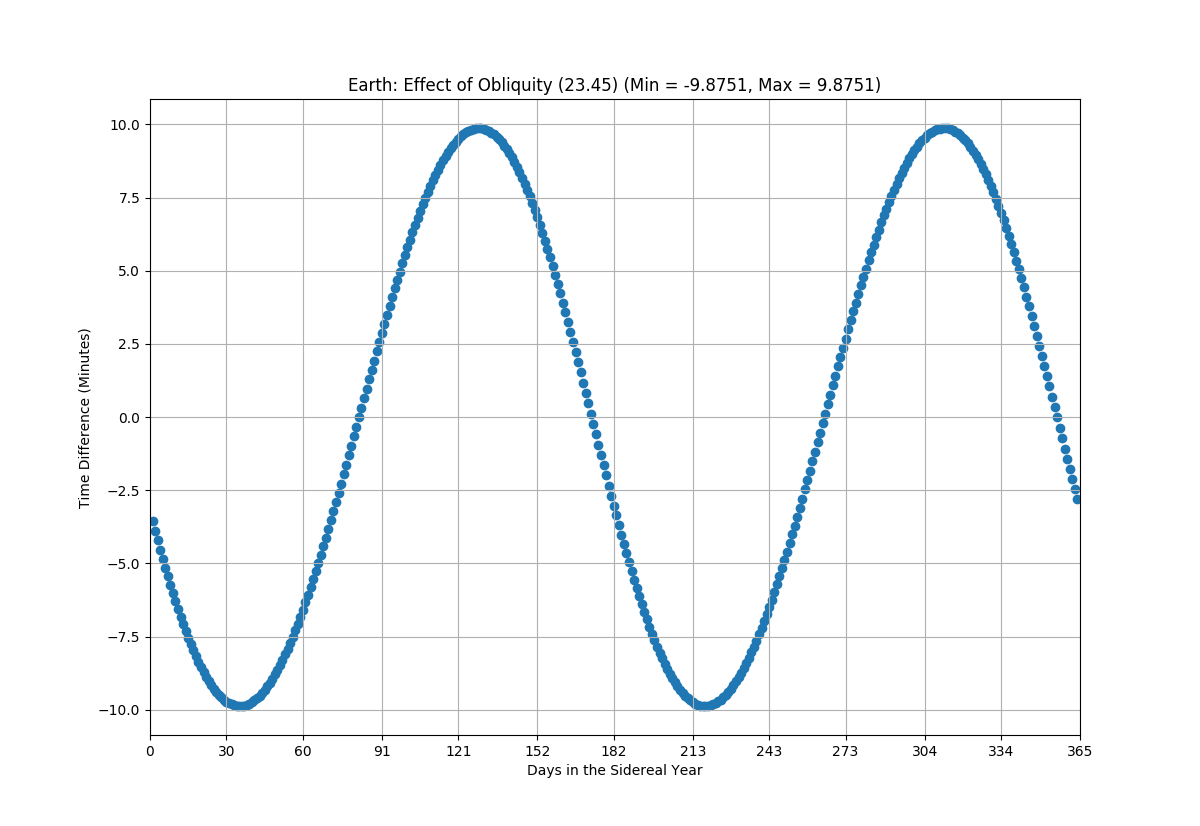
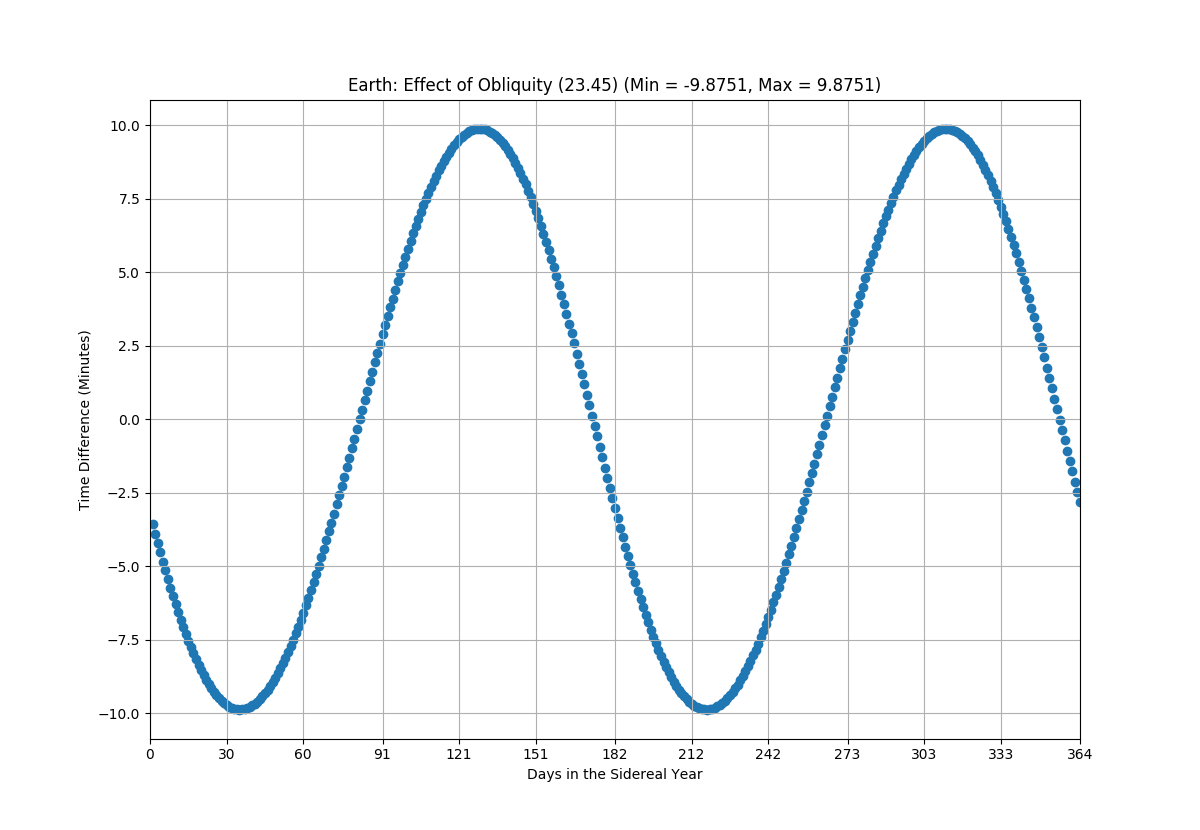
calculateDifferenceEOTMinutes() returns dict {day:eot_diff}

diff --git a/build/lib/muller_eot/calculate_eot.py b/build/lib/muller_eot/calculate_eot.py
@@ -34,6 +34,7 @@ def calculateDifferenceEOTMinutes(eccentricity=None,
 								obliquity_deg,
 								orbit_period) # Verify argument behavior
 
+
 	distance_between_solistice_perhelion_deg = muller_eot.calculateDistanceBetweenSolisticePerhelion()
 	distance_between_solistice_perhelion_rad = np.deg2rad(distance_between_solistice_perhelion_deg)
 
@@ -42,7 +43,7 @@ def calculateDifferenceEOTMinutes(eccentricity=None,
 	minutes_conversion = (24 * 60) / (2 * math.pi)
 	perihelion_day = muller_eot.calculatePerihelionDay()
 
-	eot_mins = []
+	eot_dict = {} # { day : eot_min_difference }
 	orbit_days_x = np.arange(1, round(orbit_period), 1)
 
 	# Equation [45], page 11: expansion of sine function yields:
@@ -85,12 +86,12 @@ def calculateDifferenceEOTMinutes(eccentricity=None,
 		sin6_m_p = math.sin(6 * (mean_anomaly + distance_between_solistice_perhelion_rad)) # sin6(M + P)
 		line_five = tan6_1_3 * sin6_m_p
 
-		eot_mins.append(-( line_one + line_two + line_three + line_four + line_five)*minutes_conversion)
-	return eot_mins
+		eot_min_difference = -( line_one + line_two + line_three + line_four + line_five)*minutes_conversion
+		eot_dict[day] = eot_min_difference
+	return eot_dict
 
 def plotEOT(planet_name=None,
-			orbital_period=None,
-			eot_y=[],
+			eot_dict={},
 			effect_title_str=None,
 			plot_title=None,
 			plot_x_title=None,
@@ -102,8 +103,7 @@ def plotEOT(planet_name=None,
 	# Plot EOT Time Differences
 
 	muller_eot.errorHandlingPlotEOT(planet_name,
-									orbital_period,
-									eot_y,
+									eot_dict,
 									effect_title_str,
 									plot_title,
 									plot_x_title,
@@ -115,11 +115,14 @@ def plotEOT(planet_name=None,
 
 	fig = plt.figure(figsize=(figsize_n,figsize_n), dpi=figsize_dpi)
 
+	# X Axis = orbital days in year, Y Axis = minute differences for EOT
+	orbit_days_x = eot_dict.keys()
+	eot_y = eot_dict.values()
+
 	# X - Axis, split by months
-	orbit_days_x = np.arange(1, round(orbital_period), 1)
-	date_range_split_into_months = np.arange(0, round(orbital_period)+1, orbital_period/12) # split into 12 months (based on Earth)
+	date_range_split_into_months = np.arange(0, round(max(orbit_days_x))+1, max(orbit_days_x)/12) # split into 12 months (based on Earth)
 	for i, value in enumerate(date_range_split_into_months): date_range_split_into_months[i] = math.floor(value) # round all values
-	
+
 	plt.xticks(date_range_split_into_months)
 	plt.xlim([min(date_range_split_into_months), max(date_range_split_into_months)])
 	plt.scatter(orbit_days_x, eot_y)

diff --git a/muller_eot/calculate_eot.py b/muller_eot/calculate_eot.py
@@ -34,6 +34,7 @@ def calculateDifferenceEOTMinutes(eccentricity=None,
 								obliquity_deg,
 								orbit_period) # Verify argument behavior
 
+
 	distance_between_solistice_perhelion_deg = muller_eot.calculateDistanceBetweenSolisticePerhelion()
 	distance_between_solistice_perhelion_rad = np.deg2rad(distance_between_solistice_perhelion_deg)
 
@@ -42,7 +43,7 @@ def calculateDifferenceEOTMinutes(eccentricity=None,
 	minutes_conversion = (24 * 60) / (2 * math.pi)
 	perihelion_day = muller_eot.calculatePerihelionDay()
 
-	eot_mins = []
+	eot_dict = {} # { day : eot_min_difference }
 	orbit_days_x = np.arange(1, round(orbit_period), 1)
 
 	# Equation [45], page 11: expansion of sine function yields:
@@ -85,12 +86,12 @@ def calculateDifferenceEOTMinutes(eccentricity=None,
 		sin6_m_p = math.sin(6 * (mean_anomaly + distance_between_solistice_perhelion_rad)) # sin6(M + P)
 		line_five = tan6_1_3 * sin6_m_p
 
-		eot_mins.append(-( line_one + line_two + line_three + line_four + line_five)*minutes_conversion)
-	return eot_mins
+		eot_min_difference = -( line_one + line_two + line_three + line_four + line_five)*minutes_conversion
+		eot_dict[day] = eot_min_difference
+	return eot_dict
 
 def plotEOT(planet_name=None,
-			orbital_period=None,
-			eot_y=[],
+			eot_dict={},
 			effect_title_str=None,
 			plot_title=None,
 			plot_x_title=None,
@@ -102,8 +103,7 @@ def plotEOT(planet_name=None,
 	# Plot EOT Time Differences
 
 	muller_eot.errorHandlingPlotEOT(planet_name,
-									orbital_period,
-									eot_y,
+									eot_dict,
 									effect_title_str,
 									plot_title,
 									plot_x_title,
@@ -115,11 +115,14 @@ def plotEOT(planet_name=None,
 
 	fig = plt.figure(figsize=(figsize_n,figsize_n), dpi=figsize_dpi)
 
+	# X Axis = orbital days in year, Y Axis = minute differences for EOT
+	orbit_days_x = eot_dict.keys()
+	eot_y = eot_dict.values()
+
 	# X - Axis, split by months
-	orbit_days_x = np.arange(1, round(orbital_period), 1)
-	date_range_split_into_months = np.arange(0, round(orbital_period)+1, orbital_period/12) # split into 12 months (based on Earth)
+	date_range_split_into_months = np.arange(0, round(max(orbit_days_x))+1, max(orbit_days_x)/12) # split into 12 months (based on Earth)
 	for i, value in enumerate(date_range_split_into_months): date_range_split_into_months[i] = math.floor(value) # round all values
-	
+
 	plt.xticks(date_range_split_into_months)
 	plt.xlim([min(date_range_split_into_months), max(date_range_split_into_months)])
 	plt.scatter(orbit_days_x, eot_y)

diff --git a/build/lib/muller_eot/error_handling.py b/build/lib/muller_eot/error_handling.py
@@ -41,8 +41,7 @@ def errorHandlingEOT(eccentricity,
 	logger.debug("orbit_period = '{0}'".format(orbit_period))
 
 def errorHandlingPlotEOT(planet_name,
-						orbital_period,
-						eot_y,
+						eot_dict,
 						effect_title_str,
 						plot_title,
 						plot_x_title,
@@ -61,27 +60,18 @@ def errorHandlingPlotEOT(planet_name,
 		exit()
 	logger.debug("planet_name = '{0}'".format(planet_name))
 
-	# Ensure that orbital_period is a float or int
-	if type(orbital_period) != int and type(orbital_period) != float:
-		logger.critical("\nCRITICAL ERROR, [orbital_period]: Must be a int or float, current type = '{0}'".format(type(orbital_period)))
+	# Ensure that all values in eot_dict for minute differences is a float or int
+	if type(eot_dict) is not dict:
+		logger.critical("\nCRITICAL ERROR, [eot_y]: Must be a dict, currently is '{0}'".format(type(eot_dict)))
 		exit()
-	if orbital_period is None:
-		logger.critical("\nCRITICAL ERROR, [orbital_period]: Must be a int or float, currently is 'None'")
-		exit()
-	logger.debug("orbital_period = '{0}'".format(orbital_period))
-
-	# Ensure that all y values for minute differences is a float or int
-	if type(eot_y) is not list:
-		logger.critical("\nCRITICAL ERROR, [eot_y]: Must be a list, currently is '{0}'".format(type(eot_y)))
-		exit()
-	for minute_dif in eot_y:
+	for minute_dif in eot_dict.values():
 		if type(minute_dif) != int and type(minute_dif) != float:
-			logger.critical("\nCRITICAL ERROR, [eot_y]: Must be a int or float, current type = '{0}'".format(type(minute_dif)))
+			logger.critical("\nCRITICAL ERROR, [eot_dict.values()]: Must be a int or float, current type = '{0}'".format(type(minute_dif)))
 			exit()
-	if len(eot_y) < 1:
-		logger.critical("\nCRITICAL ERROR, [eot_y]: Must have a length greater than zero")
+	if len(eot_dict.values()) < 1:
+		logger.critical("\nCRITICAL ERROR, [eot_dict.values()]: Must have a length greater than zero")
 		exit()
-	logger.debug("eot_y = '{0}'".format(eot_y))
+	logger.debug("eot_dict = '{0}'".format(eot_dict))
 
 	# Ensure that the effect title type is a string
 	if type(effect_title_str) != str:

diff --git a/muller_eot/error_handling.py b/muller_eot/error_handling.py
@@ -41,8 +41,7 @@ def errorHandlingEOT(eccentricity,
 	logger.debug("orbit_period = '{0}'".format(orbit_period))
 
 def errorHandlingPlotEOT(planet_name,
-						orbital_period,
-						eot_y,
+						eot_dict,
 						effect_title_str,
 						plot_title,
 						plot_x_title,
@@ -61,27 +60,18 @@ def errorHandlingPlotEOT(planet_name,
 		exit()
 	logger.debug("planet_name = '{0}'".format(planet_name))
 
-	# Ensure that orbital_period is a float or int
-	if type(orbital_period) != int and type(orbital_period) != float:
-		logger.critical("\nCRITICAL ERROR, [orbital_period]: Must be a int or float, current type = '{0}'".format(type(orbital_period)))
+	# Ensure that all values in eot_dict for minute differences is a float or int
+	if type(eot_dict) is not dict:
+		logger.critical("\nCRITICAL ERROR, [eot_y]: Must be a dict, currently is '{0}'".format(type(eot_dict)))
 		exit()
-	if orbital_period is None:
-		logger.critical("\nCRITICAL ERROR, [orbital_period]: Must be a int or float, currently is 'None'")
-		exit()
-	logger.debug("orbital_period = '{0}'".format(orbital_period))
-
-	# Ensure that all y values for minute differences is a float or int
-	if type(eot_y) is not list:
-		logger.critical("\nCRITICAL ERROR, [eot_y]: Must be a list, currently is '{0}'".format(type(eot_y)))
-		exit()
-	for minute_dif in eot_y:
+	for minute_dif in eot_dict.values():
 		if type(minute_dif) != int and type(minute_dif) != float:
-			logger.critical("\nCRITICAL ERROR, [eot_y]: Must be a int or float, current type = '{0}'".format(type(minute_dif)))
+			logger.critical("\nCRITICAL ERROR, [eot_dict.values()]: Must be a int or float, current type = '{0}'".format(type(minute_dif)))
 			exit()
-	if len(eot_y) < 1:
-		logger.critical("\nCRITICAL ERROR, [eot_y]: Must have a length greater than zero")
+	if len(eot_dict.values()) < 1:
+		logger.critical("\nCRITICAL ERROR, [eot_dict.values()]: Must have a length greater than zero")
 		exit()
-	logger.debug("eot_y = '{0}'".format(eot_y))
+	logger.debug("eot_dict = '{0}'".format(eot_dict))
 
 	# Ensure that the effect title type is a string
 	if type(effect_title_str) != str:

diff --git a/generate_examples_eot_charts.py b/generate_examples_eot_charts.py
@@ -18,31 +18,28 @@ if __name__ == '__main__':
 			orbital_period_planet = muller_eot.calculateOrbitalPeriod(planet[3])
 
 			# Effect of Eccentricity
-			eccentricity_y = muller_eot.calculateDifferenceEOTMinutes(eccentricity=planet[1],
+			eccentricity_dict = muller_eot.calculateDifferenceEOTMinutes(eccentricity=planet[1],
 																	obliquity_deg=0,
 																	orbit_period=orbital_period_planet)
 			muller_eot.plotEOT(planet_name=planet[0], 
-								orbital_period=orbital_period_planet, 
-								eot_y=eccentricity_y,
+								eot_dict=eccentricity_dict,
 								effect_title_str="Eccentricity ({0})".format(planet[1]), 
 								save_plot_name="examples/{0}_eccentricity_testing".format(planet[0].lower()))
 
 			# Effect of Obliquity
-			obliquity_y = muller_eot.calculateDifferenceEOTMinutes(eccentricity=0, 
+			obliquity_dict = muller_eot.calculateDifferenceEOTMinutes(eccentricity=0, 
 																	obliquity_deg=planet[2], 
 																	orbit_period=orbital_period_planet)
 			muller_eot.plotEOT(planet_name=planet[0],
-								orbital_period=orbital_period_planet,
-								eot_y=obliquity_y,
+								eot_dict=obliquity_dict,
 								effect_title_str="Obliquity ({0})".format(planet[2]),
 								save_plot_name="examples/{0}_obliquity_testing".format(planet[0].lower()))
 
 			# Combined Effect of Obliquity and Eccentricity
-			eot_combined_y = muller_eot.calculateDifferenceEOTMinutes(eccentricity=planet[1],
+			eot_combined_dict = muller_eot.calculateDifferenceEOTMinutes(eccentricity=planet[1],
 																	obliquity_deg=planet[2],
 																	orbit_period=orbital_period_planet)
 			muller_eot.plotEOT(planet_name=planet[0],
-								orbital_period=orbital_period_planet,
-								eot_y=eot_combined_y,
+								eot_dict=eot_combined_dict,
 								effect_title_str="Eccentricity ({0}) and Obliquity ({1})".format(planet[1], planet[2]),
 								save_plot_name="examples/{0}_eot_testing".format(planet[0].lower()))

diff --git a/setup.py b/setup.py
@@ -3,7 +3,7 @@
 # Python Package Setup
 from setuptools import setup, find_namespace_packages
 
-VERSION="1.1.0"
+VERSION="1.2.0"
 DESCRIPTION="A Python package for M. Müller implementation of the 'Equation of Time - Problem in Astronomy' to calculate EOT and the effect of eccentricity/obliquity"
 
 with open("README.md", "r") as f:
